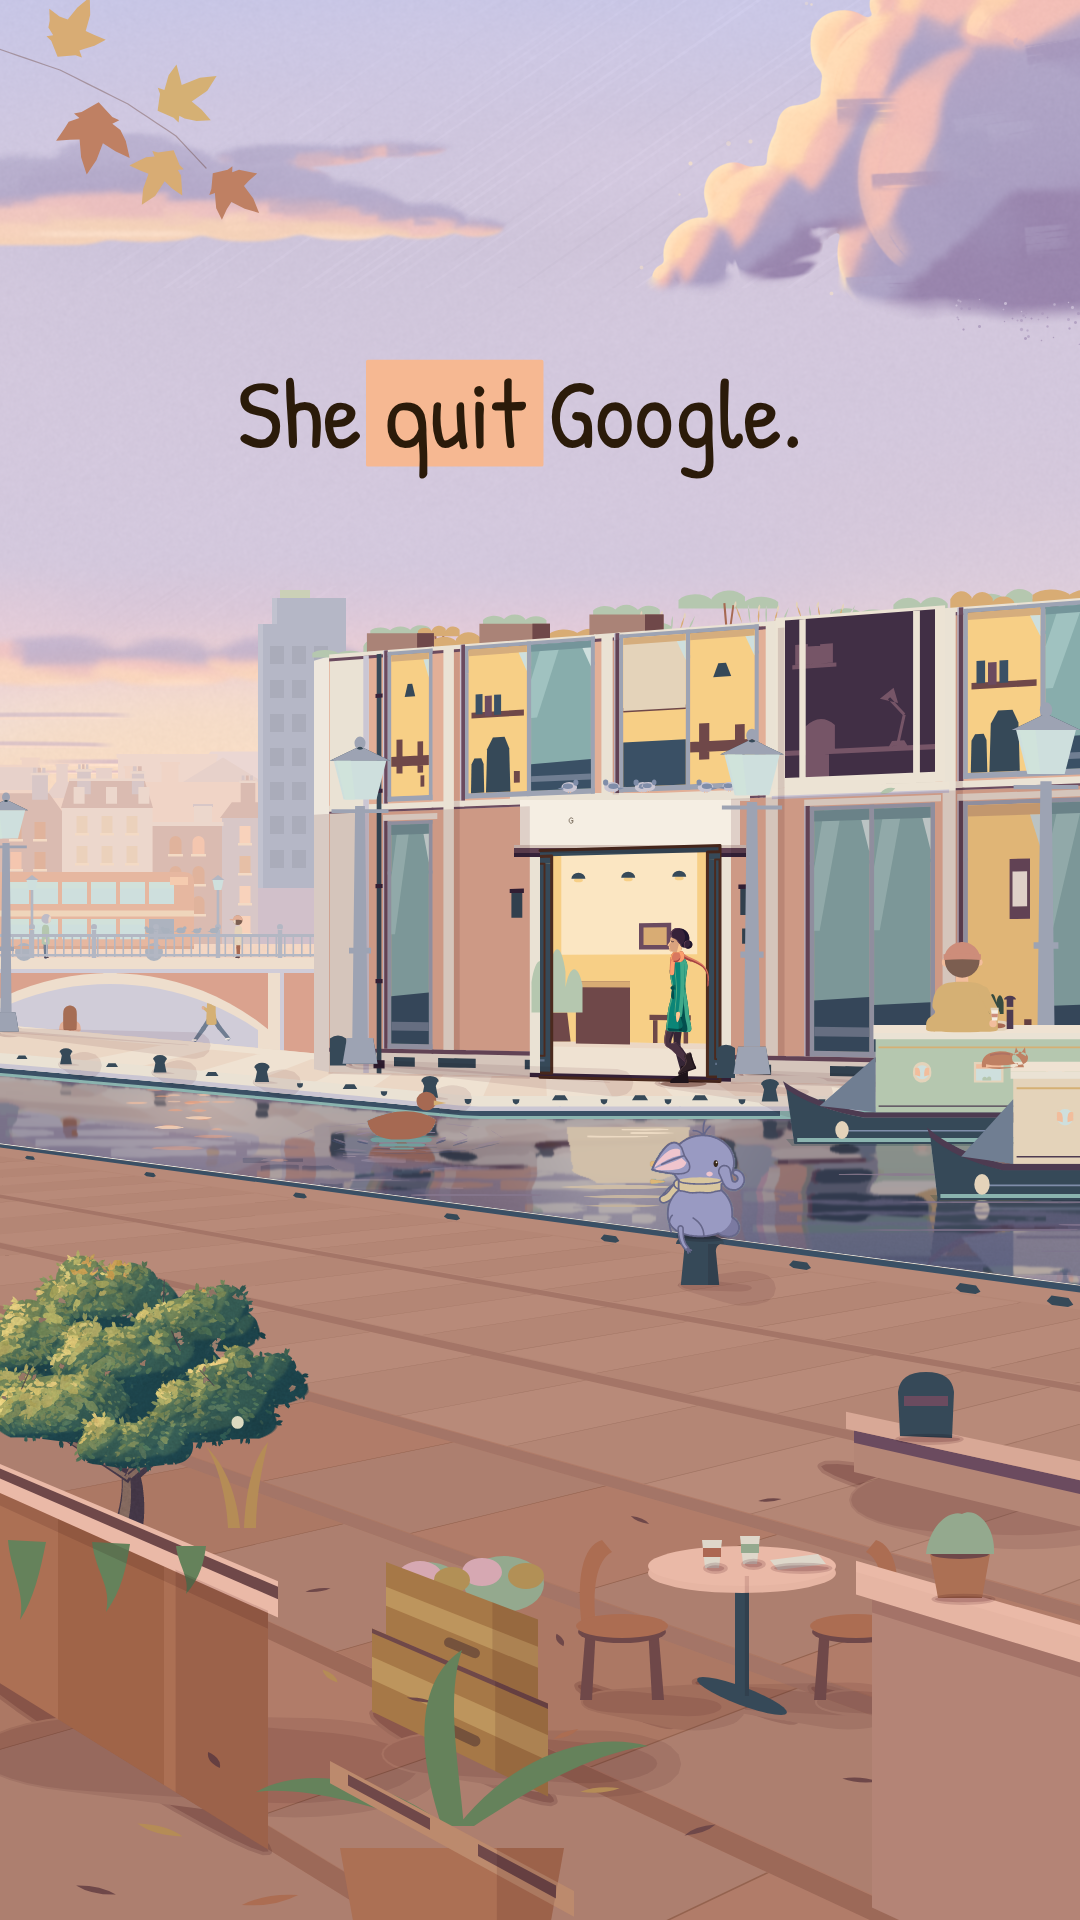
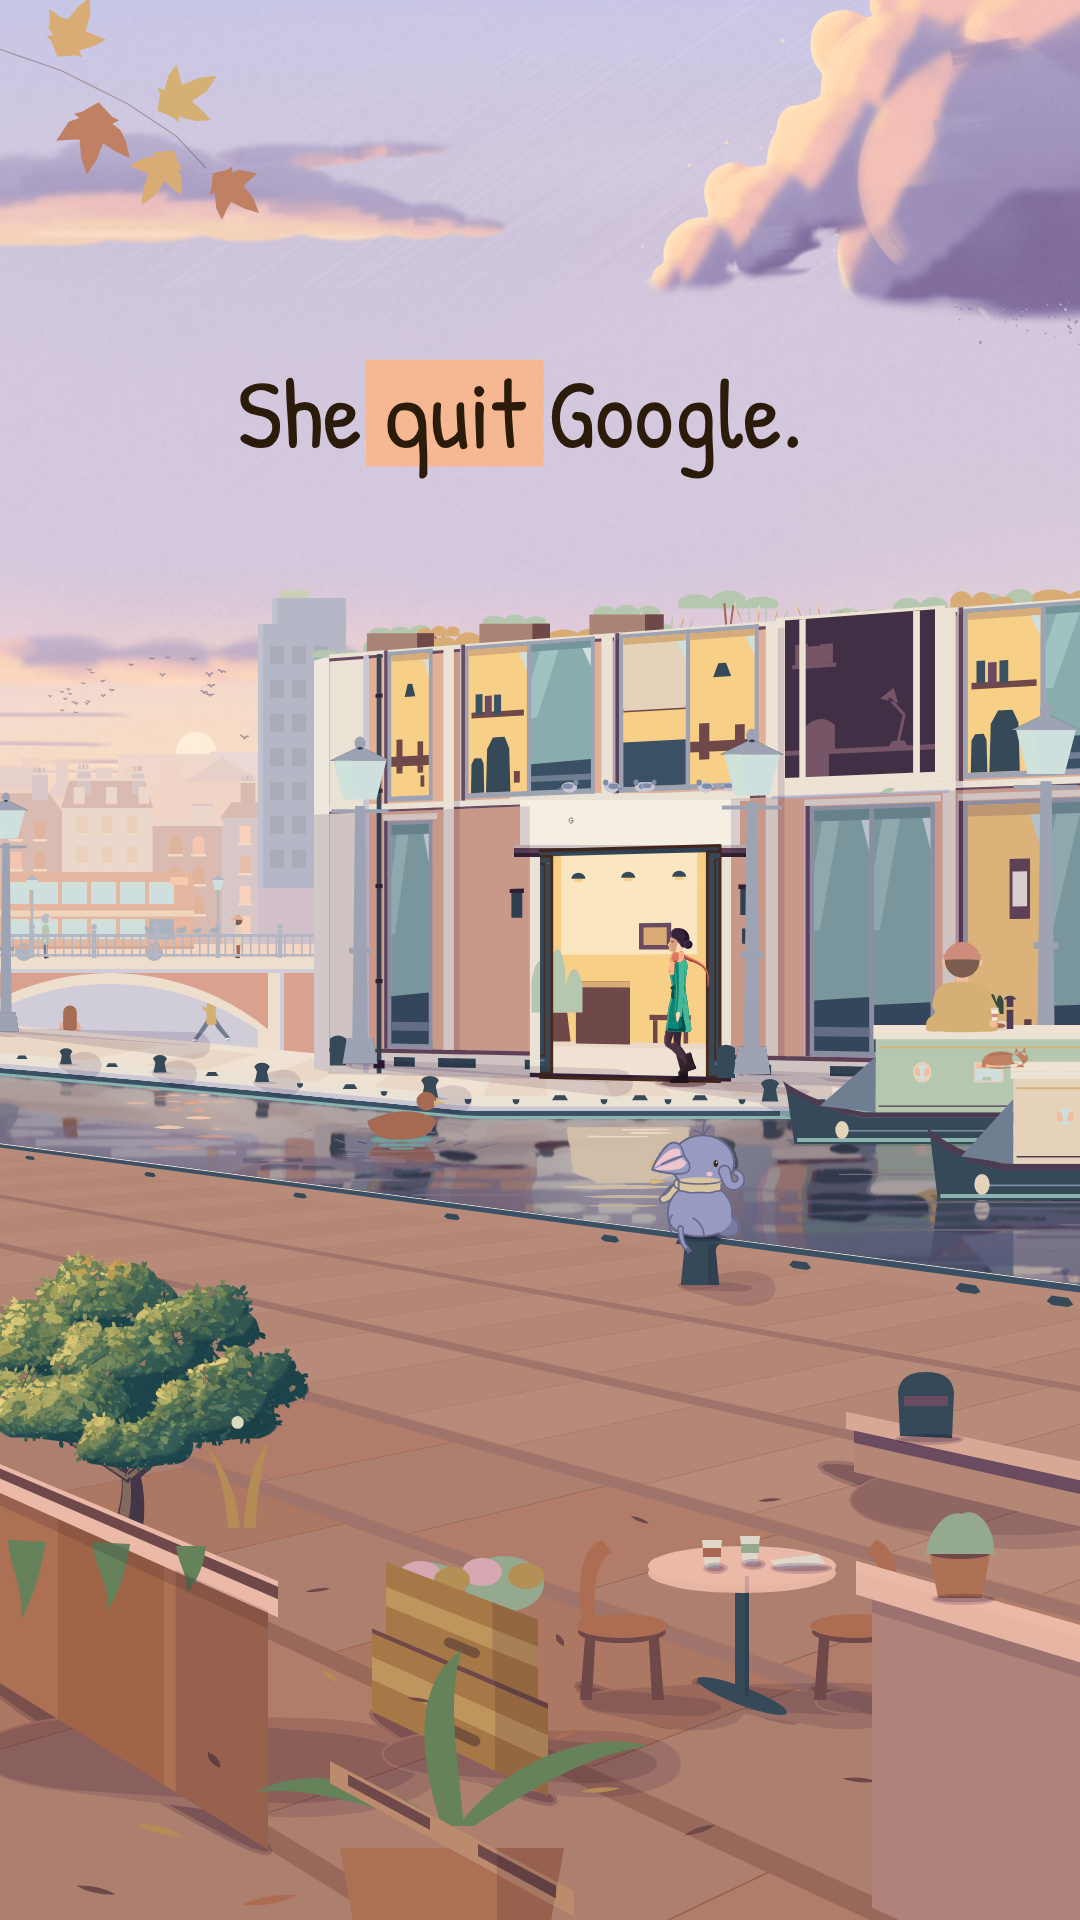
Painter v6 (iteration): built from the recipe book, real darks, the refined her; the sky-top choice
Claude-Session: https://claude.ai/code/session_01YGLGMqbgdpycjemYZL3aoL

diff --git a/video/src/look/paint_s1/v6.tsx b/video/src/look/paint_s1/v6.tsx
@@ -4,6 +4,8 @@
 // The film's sun disc goes quiet wherever the painted sky draws CRAFT §g.2's own (its manifest row `hides: ['sun']`).
 import React, {createContext, useContext} from 'react';
 import {usePaintOn, usePiece} from '../../lib/paint';
+import {tintFamily, type LightRig} from '../../lib/light';
+import {TINT_CANAL} from '../../v2r/world/rigs';
 
 const V6Ctx = createContext(false);
 export const V6Provider: React.FC<{on: boolean; children?: React.ReactNode}> = ({on, children}) => <V6Ctx.Provider value={on}>{children}</V6Ctx.Provider>;
@@ -16,3 +18,11 @@ export function usePaintHides(pieceName: string, thing: string): boolean {
   const on = usePaintOn(pieceName);
   return on && !!piece?.hides?.includes(thing);
 }
+
+/** (v6, the phone-size fix) the rig's shadow family turned to the dusk's lilac-plum and a step deeper, so every near
+ *  thing's cast and contact shadow is one of the real darks in many small pieces (CRAFT §f.8), cool on the warm ground
+ *  (v5's duskRig family, deeper: cast 0.44, contact 0.62); the water keeps its own step. */
+export const v6Rig = (rig: LightRig): LightRig => ({
+  ...rig,
+  tints: {...tintFamily('#86719F', {form: 0.24, cast: 0.44, contact: 0.62}, '#FFFFFF'), water: TINT_CANAL.water} as LightRig['tints'],
+});

diff --git a/video/src/look/paint_s1/PaintS1.tsx b/video/src/look/paint_s1/PaintS1.tsx
@@ -19,7 +19,7 @@ export type PaintS1Props = Omit<PosterS1Props, 'preset'> & {
   paint?: boolean;
   /** Which painted pieces (default all): a subset for A/Bs. */
   pieces?: string[];
-  /** Which bake (paint_set.ts): 'v1' (default), 'v2' (the bolder dose), 'v3' (the broad brush, a layered sky), 'v4design' (v4's flat designed shapes), 'v4' (them painted), 'v5' (v4 redesigned, one evening light for the whole scene). */
+  /** Which bake (paint_set.ts): 'v1' (default), 'v2' (the bolder dose), 'v3' (the broad brush, a layered sky), 'v4design' (v4's flat designed shapes), 'v4' (them painted), 'v5' (v4 redesigned, one evening light for the whole scene), 'v6' (painter v6 from the recipe book, with the darks switch, the refined her and a deeper lilac shadow family: v6.tsx). */
   set?: PaintSetName;
   /** The opening's PAINT-ON as a still (lib/paint reveal.tsx; owner: "would it literally just popup?"): the overall
    *  progress 0..1, 0 = our flat design, 1 = painted, each piece in S1_REVEAL_WINDOWS's order ('ai1': ai_paint/NOTES.md).

diff --git a/video/src/look/paint_s1/V2S1.tsx b/video/src/look/paint_s1/V2S1.tsx
@@ -38,6 +38,7 @@ import {shadeRig, TextureSlot} from './engine';
 import {useTime} from '../../lib/time';
 import {PARALLAX_SKY} from '../../lib/depth';
 import {duskRig, useDusk} from './dusk';
+import {useV6, v6Rig} from './v6';
 
 export const captionTone: ToneKey[] = [{t: 0, tone: 'dark'}];
 
@@ -47,9 +48,12 @@ const V2S1: React.FC = () => {
   const t = useTime();
   // (paint v5) one evening light: the lilac shadow family under the dusk sky
   const dusk = useDusk();
+  // (paint v6) the lilac-plum shadow family, a step deeper (v6.tsx)
+  const v6 = useV6();
+  const rig = shadeRig(sw, RIG_CANAL, CM.shadeWarm);
   return (
   <World sky={CM.white} horizon={1000}>
-    <Lit rig={dusk ? duskRig(shadeRig(sw, RIG_CANAL, CM.shadeWarm)) : shadeRig(sw, RIG_CANAL, CM.shadeWarm)}>
+    <Lit rig={dusk ? duskRig(rig) : v6 ? v6Rig(rig) : rig}>
       {/* (the look test's texture: the sky's mottle, the sky plane's seed, no float) */}
       <TextureSlot sw={sw} t={t} plane={PARALLAX_SKY} sky>
         <SkyFlood />

diff --git a/video/docs/studies/2026-10-28_city_posters/paint_test/NOTES.md b/video/docs/studies/2026-10-28_city_posters/paint_test/NOTES.md
@@ -237,3 +237,12 @@ evening light (water and paving tinted by the dusk); paint a little more visible
   - the soft-light washes are screen-space rectangles: in motion they would have to ride their planes;
   - the paint is still subtle inside the masses at 400 px.
 
+
+## v6: the recipe book in the engine (iteration, 2026-10-30; `PAINT_RECIPES.md` §4; outputs `paint_still_v6.png` = `deliverables/tests/painted_scene1_still_v6.png`, `compare_v6.jpg`, `skytop_v6_choice.jpg`; spec `scripts/look/paint/v2s1_v6.json` + `v2s1_v6b.json`, set `v6`, bake = `bake_v2s1.sh`'s v6 lines)
+- **From the book:** paint.py's v6 block imports the four recipe scripts as five styles (`sky_recipe`, `cloud_planes`, `water_recipe` = E7 with keys on OUR design frame, `tree_recipe`, `far_city_recipe`) + `flock_sprite`; `atmos_np` = lib/depth `atmos` (node check, brick/sage/lilac at k .22/.40/.65: worst 0.5 dE); §3 C1 k ladder, C5 one light table, C6 the sky's disc only, C11 caps, C13 PCHIP, C16 sha256 seeds, C18 one warmth field; D2 the flock is its own layer in the particle slot (never baked), D3 far city in CRAFT's caps (+3 spread 10.2 dE, +4 dE 2.1 to the air, spread 4.1), D4 the water fed from the sky set, D5 no `FO.converge` (near k 0, a -5 L* near step).
+- **Scene 1:** the sky (gradient, hatch, 4 streak rows, CRAFT's pale disc, raised to y 752 so the roofs half-cut it instead of hiding it), 3 cloud planes (far deck +3, mid bank +2, near cumulus 0, their shade and deep a step deeper: #9d8fb9 / #806d9e), the canal, the tree, the far roofs (+4) and tower (+3), a pale flock low by the sun; the paving, pier, bridge and facade stay the film's flat (book §4.1). Two bakes give the same md5; the bake is 19 s on one core (the sky alone 10 s, over the 15 s target).
+- **Real darks** (set v6 = the scene's `darks` switch + the painted darks + `v6Rig`, a lilac-plum shadow family a step deeper): L* < 40 on 7.2 % of the frame in 433 pieces (the largest 0.6 %), against v5 1.9 % and ai_still_v1 1.9 %; median L* 67 (v5 83, AI 81), p5 33 (v5 62), p2-p98 range 64 L*. The refs are low-key: 03 median 34 with 67 % under L* 40, 02 median 21 with 83 %; we stay far above them because the caption field and sky stay light (rows 0-600: 0-3 % darks, the 3 % being the ink).
+- **The caption band** stays calm: on the words' rows (x 150-800, y 317-556, captions off) the p2-p98 spread is 1.29 L* (<= 1.5), mean L* 81.9; the darks sit at y 600-1320 (10-16 % of those rows) and in the near frame (6 %).
+- **Water:** the ladder deepened per plane (`ladder_dL`: mid -12, near -18, deep -24): the horizon step is now 23 L* (sky 89 -> the canal's far water 66) and 34 to the near canal (the recipe's 15; the refs 30-50); marks 8.4 % (light 3.7, dark 4.7), calm 79 %, tooth 1.71 (`mark_metric`, all in range).
+- **Her:** `src/lib/figure` in profile walking west at her place in the doorway, with the new optional `FigurePose.tune` (slim 0.88; the hem at -335, above the knee, so the legs act; a 300-unit scarf end tapering 13 -> 3.5); the low sun as the key (a warm rim on her front) and the lit door as a local light on her back (a light-teal edge against the door's dark frame). The door, the sign, Pip and the captions are untouched; the tree's silhouette edge measures ~1.6 px.
+- **Weak spots:** the paving is one big flat terracotta field at phone size (the book's next recipe, §4.5); the pale disc barely reads at 400 px (CRAFT §g.2, by rule); the cumulus is smaller than v5's and keeps a few level-block rectangles at 1:1; the mid bank is one slab; the far flats were already hazed by the film, so +4 lands near its air; her back edge is lit teal-on-teal, warm only in hue; the water's left third mirrors a little busy.
